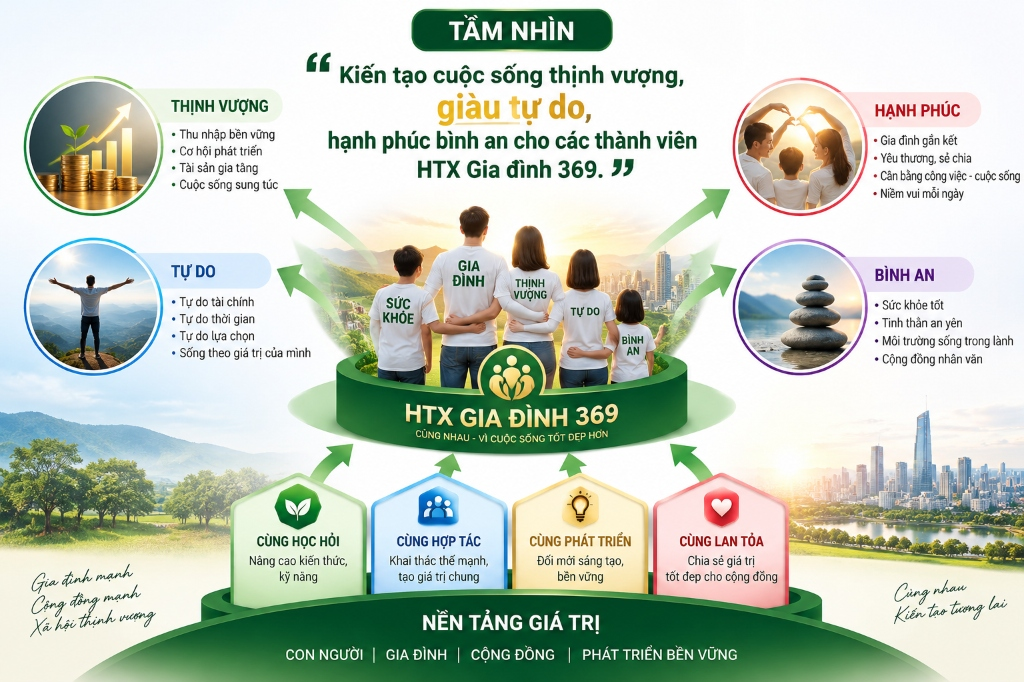
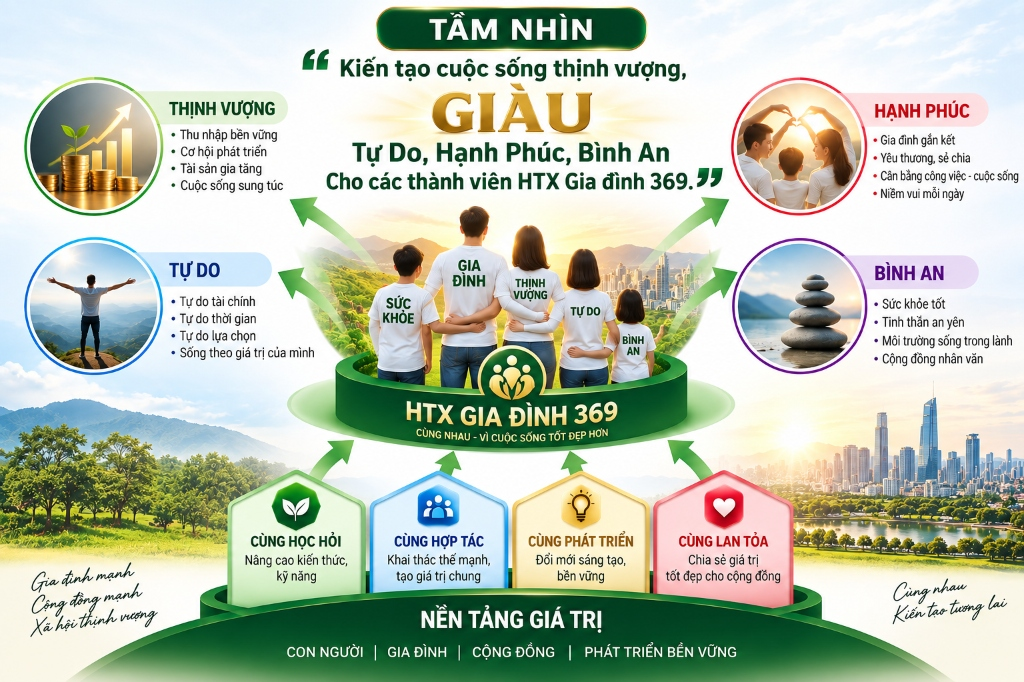
fix: Cap nhat file anh so-do-tam-nhin.png moi (chua chu GIAU vang nguyen khoi) va dong bo Slide 1

diff --git a/Web-369-dao-tao/fix code/369-daotao-index-FIXED.html b/Web-369-dao-tao/fix code/369-daotao-index-FIXED.html
@@ -3523,13 +3523,13 @@
       id: 0,
       title: "Slide 1: Tầm nhìn HTX Gia đình 369",
       img: "./so-do-tam-nhin.png",
-      subtitle: "Kiến tạo cuộc sống thịnh vượng, GIÀU Tự Do, Hạnh Phúc, Bình An",
+      subtitle: "Kiến tạo cuộc sống thịnh vượng, GIÀU Tự Do · Hạnh Phúc · Bình An",
       badge: "Tầm Nhìn 369",
-      desc: "Tầm nhìn chiến lược HTX Gia đình 369: Kiến tạo cuộc sống thịnh vượng, giàu tự do, hạnh phúc và bình an cho các thành viên — Dựa trên Nền Tảng Giá Trị: Con người – Gia đình – Cộng đồng – Phát triển bền vững.",
+      desc: "KIẾN TẠO CUỘC SỐNG THỊNH VƯỢNG, GIÀU TỰ DO · HẠNH PHÚC · BÌNH AN CHO CÁC THÀNH VIÊN HTX GIA ĐÌNH 369",
       bullets: [
-        "Khẩu hiệu cốt lõi: 'Kiến tạo cuộc sống thịnh vượng, GIÀU Tự Do, Hạnh Phúc, Bình An cho các thành viên HTX Gia đình 369.'",
-        "4 Mục tiêu Tầm nhìn: THỊNH VƯỢNG (Thu nhập, tài sản) · TỰ DO (Tài chính, thời gian, lựa chọn) · HẠNH PHÚC (Gắn kết, sẻ chia) · BÌNH AN (Sức khỏe, tinh thần).",
-        "Nền tảng hành động 4 Cùng: Cùng Học Hỏi · Cùng Hợp Tác · Cùng Phát Triển · Cùng Lan Tỏa.",
+        "Khẩu hiệu cốt lõi: 'KIẾN TẠO CUỘC SỐNG THỊNH VƯỢNG, GIÀU TỰ DO · HẠNH PHÚC · BÌNH AN CHO CÁC THÀNH VIÊN HTX GIA ĐÌNH 369.'",
+        "4 Mục tiêu Tầm nhìn: THỊNH VƯỢNG (Thu nhập, tài sản gia tăng) · TỰ DO (Tài chính, thời gian, lựa chọn) · HẠNH PHÚC (Gắn kết, sẻ chia) · BÌNH AN (Sức khỏe, tinh thần).",
+        "Nền tảng giá trị (4 Cùng): Cùng Học Hỏi · Cùng Hợp Tác · Cùng Phát Triển · Cùng Lan Tỏa.",
         "Triết lý phát triển: Gia đình mạnh – Cộng đồng mạnh – Xã hội thịnh vượng · Cùng nhau kiến tạo tương lai."
       ]
     },

diff --git a/Web-369-dao-tao/htx369-website.html b/Web-369-dao-tao/htx369-website.html
@@ -3523,13 +3523,13 @@
       id: 0,
       title: "Slide 1: Tầm nhìn HTX Gia đình 369",
       img: "./so-do-tam-nhin.png",
-      subtitle: "Kiến tạo cuộc sống thịnh vượng, GIÀU Tự Do, Hạnh Phúc, Bình An",
+      subtitle: "Kiến tạo cuộc sống thịnh vượng, GIÀU Tự Do · Hạnh Phúc · Bình An",
       badge: "Tầm Nhìn 369",
-      desc: "Tầm nhìn chiến lược HTX Gia đình 369: Kiến tạo cuộc sống thịnh vượng, giàu tự do, hạnh phúc và bình an cho các thành viên — Dựa trên Nền Tảng Giá Trị: Con người – Gia đình – Cộng đồng – Phát triển bền vững.",
+      desc: "KIẾN TẠO CUỘC SỐNG THỊNH VƯỢNG, GIÀU TỰ DO · HẠNH PHÚC · BÌNH AN CHO CÁC THÀNH VIÊN HTX GIA ĐÌNH 369",
       bullets: [
-        "Khẩu hiệu cốt lõi: 'Kiến tạo cuộc sống thịnh vượng, GIÀU Tự Do, Hạnh Phúc, Bình An cho các thành viên HTX Gia đình 369.'",
-        "4 Mục tiêu Tầm nhìn: THỊNH VƯỢNG (Thu nhập, tài sản) · TỰ DO (Tài chính, thời gian, lựa chọn) · HẠNH PHÚC (Gắn kết, sẻ chia) · BÌNH AN (Sức khỏe, tinh thần).",
-        "Nền tảng hành động 4 Cùng: Cùng Học Hỏi · Cùng Hợp Tác · Cùng Phát Triển · Cùng Lan Tỏa.",
+        "Khẩu hiệu cốt lõi: 'KIẾN TẠO CUỘC SỐNG THỊNH VƯỢNG, GIÀU TỰ DO · HẠNH PHÚC · BÌNH AN CHO CÁC THÀNH VIÊN HTX GIA ĐÌNH 369.'",
+        "4 Mục tiêu Tầm nhìn: THỊNH VƯỢNG (Thu nhập, tài sản gia tăng) · TỰ DO (Tài chính, thời gian, lựa chọn) · HẠNH PHÚC (Gắn kết, sẻ chia) · BÌNH AN (Sức khỏe, tinh thần).",
+        "Nền tảng giá trị (4 Cùng): Cùng Học Hỏi · Cùng Hợp Tác · Cùng Phát Triển · Cùng Lan Tỏa.",
         "Triết lý phát triển: Gia đình mạnh – Cộng đồng mạnh – Xã hội thịnh vượng · Cùng nhau kiến tạo tương lai."
       ]
     },

diff --git a/Web-369-dao-tao/index.html b/Web-369-dao-tao/index.html
@@ -3523,13 +3523,13 @@
       id: 0,
       title: "Slide 1: Tầm nhìn HTX Gia đình 369",
       img: "./so-do-tam-nhin.png",
-      subtitle: "Kiến tạo cuộc sống thịnh vượng, GIÀU Tự Do, Hạnh Phúc, Bình An",
+      subtitle: "Kiến tạo cuộc sống thịnh vượng, GIÀU Tự Do · Hạnh Phúc · Bình An",
       badge: "Tầm Nhìn 369",
-      desc: "Tầm nhìn chiến lược HTX Gia đình 369: Kiến tạo cuộc sống thịnh vượng, giàu tự do, hạnh phúc và bình an cho các thành viên — Dựa trên Nền Tảng Giá Trị: Con người – Gia đình – Cộng đồng – Phát triển bền vững.",
+      desc: "KIẾN TẠO CUỘC SỐNG THỊNH VƯỢNG, GIÀU TỰ DO · HẠNH PHÚC · BÌNH AN CHO CÁC THÀNH VIÊN HTX GIA ĐÌNH 369",
       bullets: [
-        "Khẩu hiệu cốt lõi: 'Kiến tạo cuộc sống thịnh vượng, GIÀU Tự Do, Hạnh Phúc, Bình An cho các thành viên HTX Gia đình 369.'",
-        "4 Mục tiêu Tầm nhìn: THỊNH VƯỢNG (Thu nhập, tài sản) · TỰ DO (Tài chính, thời gian, lựa chọn) · HẠNH PHÚC (Gắn kết, sẻ chia) · BÌNH AN (Sức khỏe, tinh thần).",
-        "Nền tảng hành động 4 Cùng: Cùng Học Hỏi · Cùng Hợp Tác · Cùng Phát Triển · Cùng Lan Tỏa.",
+        "Khẩu hiệu cốt lõi: 'KIẾN TẠO CUỘC SỐNG THỊNH VƯỢNG, GIÀU TỰ DO · HẠNH PHÚC · BÌNH AN CHO CÁC THÀNH VIÊN HTX GIA ĐÌNH 369.'",
+        "4 Mục tiêu Tầm nhìn: THỊNH VƯỢNG (Thu nhập, tài sản gia tăng) · TỰ DO (Tài chính, thời gian, lựa chọn) · HẠNH PHÚC (Gắn kết, sẻ chia) · BÌNH AN (Sức khỏe, tinh thần).",
+        "Nền tảng giá trị (4 Cùng): Cùng Học Hỏi · Cùng Hợp Tác · Cùng Phát Triển · Cùng Lan Tỏa.",
         "Triết lý phát triển: Gia đình mạnh – Cộng đồng mạnh – Xã hội thịnh vượng · Cùng nhau kiến tạo tương lai."
       ]
     },

diff --git a/Web-369-dao-tao/web369-index.html b/Web-369-dao-tao/web369-index.html
@@ -3523,13 +3523,13 @@
       id: 0,
       title: "Slide 1: Tầm nhìn HTX Gia đình 369",
       img: "./so-do-tam-nhin.png",
-      subtitle: "Kiến tạo cuộc sống thịnh vượng, GIÀU Tự Do, Hạnh Phúc, Bình An",
+      subtitle: "Kiến tạo cuộc sống thịnh vượng, GIÀU Tự Do · Hạnh Phúc · Bình An",
       badge: "Tầm Nhìn 369",
-      desc: "Tầm nhìn chiến lược HTX Gia đình 369: Kiến tạo cuộc sống thịnh vượng, giàu tự do, hạnh phúc và bình an cho các thành viên — Dựa trên Nền Tảng Giá Trị: Con người – Gia đình – Cộng đồng – Phát triển bền vững.",
+      desc: "KIẾN TẠO CUỘC SỐNG THỊNH VƯỢNG, GIÀU TỰ DO · HẠNH PHÚC · BÌNH AN CHO CÁC THÀNH VIÊN HTX GIA ĐÌNH 369",
       bullets: [
-        "Khẩu hiệu cốt lõi: 'Kiến tạo cuộc sống thịnh vượng, GIÀU Tự Do, Hạnh Phúc, Bình An cho các thành viên HTX Gia đình 369.'",
-        "4 Mục tiêu Tầm nhìn: THỊNH VƯỢNG (Thu nhập, tài sản) · TỰ DO (Tài chính, thời gian, lựa chọn) · HẠNH PHÚC (Gắn kết, sẻ chia) · BÌNH AN (Sức khỏe, tinh thần).",
-        "Nền tảng hành động 4 Cùng: Cùng Học Hỏi · Cùng Hợp Tác · Cùng Phát Triển · Cùng Lan Tỏa.",
+        "Khẩu hiệu cốt lõi: 'KIẾN TẠO CUỘC SỐNG THỊNH VƯỢNG, GIÀU TỰ DO · HẠNH PHÚC · BÌNH AN CHO CÁC THÀNH VIÊN HTX GIA ĐÌNH 369.'",
+        "4 Mục tiêu Tầm nhìn: THỊNH VƯỢNG (Thu nhập, tài sản gia tăng) · TỰ DO (Tài chính, thời gian, lựa chọn) · HẠNH PHÚC (Gắn kết, sẻ chia) · BÌNH AN (Sức khỏe, tinh thần).",
+        "Nền tảng giá trị (4 Cùng): Cùng Học Hỏi · Cùng Hợp Tác · Cùng Phát Triển · Cùng Lan Tỏa.",
         "Triết lý phát triển: Gia đình mạnh – Cộng đồng mạnh – Xã hội thịnh vượng · Cùng nhau kiến tạo tương lai."
       ]
     },

diff --git a/fix code/369-daotao-index-FIXED.html b/fix code/369-daotao-index-FIXED.html
@@ -3523,13 +3523,13 @@
       id: 0,
       title: "Slide 1: Tầm nhìn HTX Gia đình 369",
       img: "./so-do-tam-nhin.png",
-      subtitle: "Kiến tạo cuộc sống thịnh vượng, GIÀU Tự Do, Hạnh Phúc, Bình An",
+      subtitle: "Kiến tạo cuộc sống thịnh vượng, GIÀU Tự Do · Hạnh Phúc · Bình An",
       badge: "Tầm Nhìn 369",
-      desc: "Tầm nhìn chiến lược HTX Gia đình 369: Kiến tạo cuộc sống thịnh vượng, giàu tự do, hạnh phúc và bình an cho các thành viên — Dựa trên Nền Tảng Giá Trị: Con người – Gia đình – Cộng đồng – Phát triển bền vững.",
+      desc: "KIẾN TẠO CUỘC SỐNG THỊNH VƯỢNG, GIÀU TỰ DO · HẠNH PHÚC · BÌNH AN CHO CÁC THÀNH VIÊN HTX GIA ĐÌNH 369",
       bullets: [
-        "Khẩu hiệu cốt lõi: 'Kiến tạo cuộc sống thịnh vượng, GIÀU Tự Do, Hạnh Phúc, Bình An cho các thành viên HTX Gia đình 369.'",
-        "4 Mục tiêu Tầm nhìn: THỊNH VƯỢNG (Thu nhập, tài sản) · TỰ DO (Tài chính, thời gian, lựa chọn) · HẠNH PHÚC (Gắn kết, sẻ chia) · BÌNH AN (Sức khỏe, tinh thần).",
-        "Nền tảng hành động 4 Cùng: Cùng Học Hỏi · Cùng Hợp Tác · Cùng Phát Triển · Cùng Lan Tỏa.",
+        "Khẩu hiệu cốt lõi: 'KIẾN TẠO CUỘC SỐNG THỊNH VƯỢNG, GIÀU TỰ DO · HẠNH PHÚC · BÌNH AN CHO CÁC THÀNH VIÊN HTX GIA ĐÌNH 369.'",
+        "4 Mục tiêu Tầm nhìn: THỊNH VƯỢNG (Thu nhập, tài sản gia tăng) · TỰ DO (Tài chính, thời gian, lựa chọn) · HẠNH PHÚC (Gắn kết, sẻ chia) · BÌNH AN (Sức khỏe, tinh thần).",
+        "Nền tảng giá trị (4 Cùng): Cùng Học Hỏi · Cùng Hợp Tác · Cùng Phát Triển · Cùng Lan Tỏa.",
         "Triết lý phát triển: Gia đình mạnh – Cộng đồng mạnh – Xã hội thịnh vượng · Cùng nhau kiến tạo tương lai."
       ]
     },

diff --git a/htx369-website.html b/htx369-website.html
@@ -3523,13 +3523,13 @@
       id: 0,
       title: "Slide 1: Tầm nhìn HTX Gia đình 369",
       img: "./so-do-tam-nhin.png",
-      subtitle: "Kiến tạo cuộc sống thịnh vượng, GIÀU Tự Do, Hạnh Phúc, Bình An",
+      subtitle: "Kiến tạo cuộc sống thịnh vượng, GIÀU Tự Do · Hạnh Phúc · Bình An",
       badge: "Tầm Nhìn 369",
-      desc: "Tầm nhìn chiến lược HTX Gia đình 369: Kiến tạo cuộc sống thịnh vượng, giàu tự do, hạnh phúc và bình an cho các thành viên — Dựa trên Nền Tảng Giá Trị: Con người – Gia đình – Cộng đồng – Phát triển bền vững.",
+      desc: "KIẾN TẠO CUỘC SỐNG THỊNH VƯỢNG, GIÀU TỰ DO · HẠNH PHÚC · BÌNH AN CHO CÁC THÀNH VIÊN HTX GIA ĐÌNH 369",
       bullets: [
-        "Khẩu hiệu cốt lõi: 'Kiến tạo cuộc sống thịnh vượng, GIÀU Tự Do, Hạnh Phúc, Bình An cho các thành viên HTX Gia đình 369.'",
-        "4 Mục tiêu Tầm nhìn: THỊNH VƯỢNG (Thu nhập, tài sản) · TỰ DO (Tài chính, thời gian, lựa chọn) · HẠNH PHÚC (Gắn kết, sẻ chia) · BÌNH AN (Sức khỏe, tinh thần).",
-        "Nền tảng hành động 4 Cùng: Cùng Học Hỏi · Cùng Hợp Tác · Cùng Phát Triển · Cùng Lan Tỏa.",
+        "Khẩu hiệu cốt lõi: 'KIẾN TẠO CUỘC SỐNG THỊNH VƯỢNG, GIÀU TỰ DO · HẠNH PHÚC · BÌNH AN CHO CÁC THÀNH VIÊN HTX GIA ĐÌNH 369.'",
+        "4 Mục tiêu Tầm nhìn: THỊNH VƯỢNG (Thu nhập, tài sản gia tăng) · TỰ DO (Tài chính, thời gian, lựa chọn) · HẠNH PHÚC (Gắn kết, sẻ chia) · BÌNH AN (Sức khỏe, tinh thần).",
+        "Nền tảng giá trị (4 Cùng): Cùng Học Hỏi · Cùng Hợp Tác · Cùng Phát Triển · Cùng Lan Tỏa.",
         "Triết lý phát triển: Gia đình mạnh – Cộng đồng mạnh – Xã hội thịnh vượng · Cùng nhau kiến tạo tương lai."
       ]
     },

diff --git a/index.html b/index.html
@@ -3523,13 +3523,13 @@
       id: 0,
       title: "Slide 1: Tầm nhìn HTX Gia đình 369",
       img: "./so-do-tam-nhin.png",
-      subtitle: "Kiến tạo cuộc sống thịnh vượng, GIÀU Tự Do, Hạnh Phúc, Bình An",
+      subtitle: "Kiến tạo cuộc sống thịnh vượng, GIÀU Tự Do · Hạnh Phúc · Bình An",
       badge: "Tầm Nhìn 369",
-      desc: "Tầm nhìn chiến lược HTX Gia đình 369: Kiến tạo cuộc sống thịnh vượng, giàu tự do, hạnh phúc và bình an cho các thành viên — Dựa trên Nền Tảng Giá Trị: Con người – Gia đình – Cộng đồng – Phát triển bền vững.",
+      desc: "KIẾN TẠO CUỘC SỐNG THỊNH VƯỢNG, GIÀU TỰ DO · HẠNH PHÚC · BÌNH AN CHO CÁC THÀNH VIÊN HTX GIA ĐÌNH 369",
       bullets: [
-        "Khẩu hiệu cốt lõi: 'Kiến tạo cuộc sống thịnh vượng, GIÀU Tự Do, Hạnh Phúc, Bình An cho các thành viên HTX Gia đình 369.'",
-        "4 Mục tiêu Tầm nhìn: THỊNH VƯỢNG (Thu nhập, tài sản) · TỰ DO (Tài chính, thời gian, lựa chọn) · HẠNH PHÚC (Gắn kết, sẻ chia) · BÌNH AN (Sức khỏe, tinh thần).",
-        "Nền tảng hành động 4 Cùng: Cùng Học Hỏi · Cùng Hợp Tác · Cùng Phát Triển · Cùng Lan Tỏa.",
+        "Khẩu hiệu cốt lõi: 'KIẾN TẠO CUỘC SỐNG THỊNH VƯỢNG, GIÀU TỰ DO · HẠNH PHÚC · BÌNH AN CHO CÁC THÀNH VIÊN HTX GIA ĐÌNH 369.'",
+        "4 Mục tiêu Tầm nhìn: THỊNH VƯỢNG (Thu nhập, tài sản gia tăng) · TỰ DO (Tài chính, thời gian, lựa chọn) · HẠNH PHÚC (Gắn kết, sẻ chia) · BÌNH AN (Sức khỏe, tinh thần).",
+        "Nền tảng giá trị (4 Cùng): Cùng Học Hỏi · Cùng Hợp Tác · Cùng Phát Triển · Cùng Lan Tỏa.",
         "Triết lý phát triển: Gia đình mạnh – Cộng đồng mạnh – Xã hội thịnh vượng · Cùng nhau kiến tạo tương lai."
       ]
     },

diff --git a/web369-index.html b/web369-index.html
@@ -3523,13 +3523,13 @@
       id: 0,
       title: "Slide 1: Tầm nhìn HTX Gia đình 369",
       img: "./so-do-tam-nhin.png",
-      subtitle: "Kiến tạo cuộc sống thịnh vượng, GIÀU Tự Do, Hạnh Phúc, Bình An",
+      subtitle: "Kiến tạo cuộc sống thịnh vượng, GIÀU Tự Do · Hạnh Phúc · Bình An",
       badge: "Tầm Nhìn 369",
-      desc: "Tầm nhìn chiến lược HTX Gia đình 369: Kiến tạo cuộc sống thịnh vượng, giàu tự do, hạnh phúc và bình an cho các thành viên — Dựa trên Nền Tảng Giá Trị: Con người – Gia đình – Cộng đồng – Phát triển bền vững.",
+      desc: "KIẾN TẠO CUỘC SỐNG THỊNH VƯỢNG, GIÀU TỰ DO · HẠNH PHÚC · BÌNH AN CHO CÁC THÀNH VIÊN HTX GIA ĐÌNH 369",
       bullets: [
-        "Khẩu hiệu cốt lõi: 'Kiến tạo cuộc sống thịnh vượng, GIÀU Tự Do, Hạnh Phúc, Bình An cho các thành viên HTX Gia đình 369.'",
-        "4 Mục tiêu Tầm nhìn: THỊNH VƯỢNG (Thu nhập, tài sản) · TỰ DO (Tài chính, thời gian, lựa chọn) · HẠNH PHÚC (Gắn kết, sẻ chia) · BÌNH AN (Sức khỏe, tinh thần).",
-        "Nền tảng hành động 4 Cùng: Cùng Học Hỏi · Cùng Hợp Tác · Cùng Phát Triển · Cùng Lan Tỏa.",
+        "Khẩu hiệu cốt lõi: 'KIẾN TẠO CUỘC SỐNG THỊNH VƯỢNG, GIÀU TỰ DO · HẠNH PHÚC · BÌNH AN CHO CÁC THÀNH VIÊN HTX GIA ĐÌNH 369.'",
+        "4 Mục tiêu Tầm nhìn: THỊNH VƯỢNG (Thu nhập, tài sản gia tăng) · TỰ DO (Tài chính, thời gian, lựa chọn) · HẠNH PHÚC (Gắn kết, sẻ chia) · BÌNH AN (Sức khỏe, tinh thần).",
+        "Nền tảng giá trị (4 Cùng): Cùng Học Hỏi · Cùng Hợp Tác · Cùng Phát Triển · Cùng Lan Tỏa.",
         "Triết lý phát triển: Gia đình mạnh – Cộng đồng mạnh – Xã hội thịnh vượng · Cùng nhau kiến tạo tương lai."
       ]
     },
